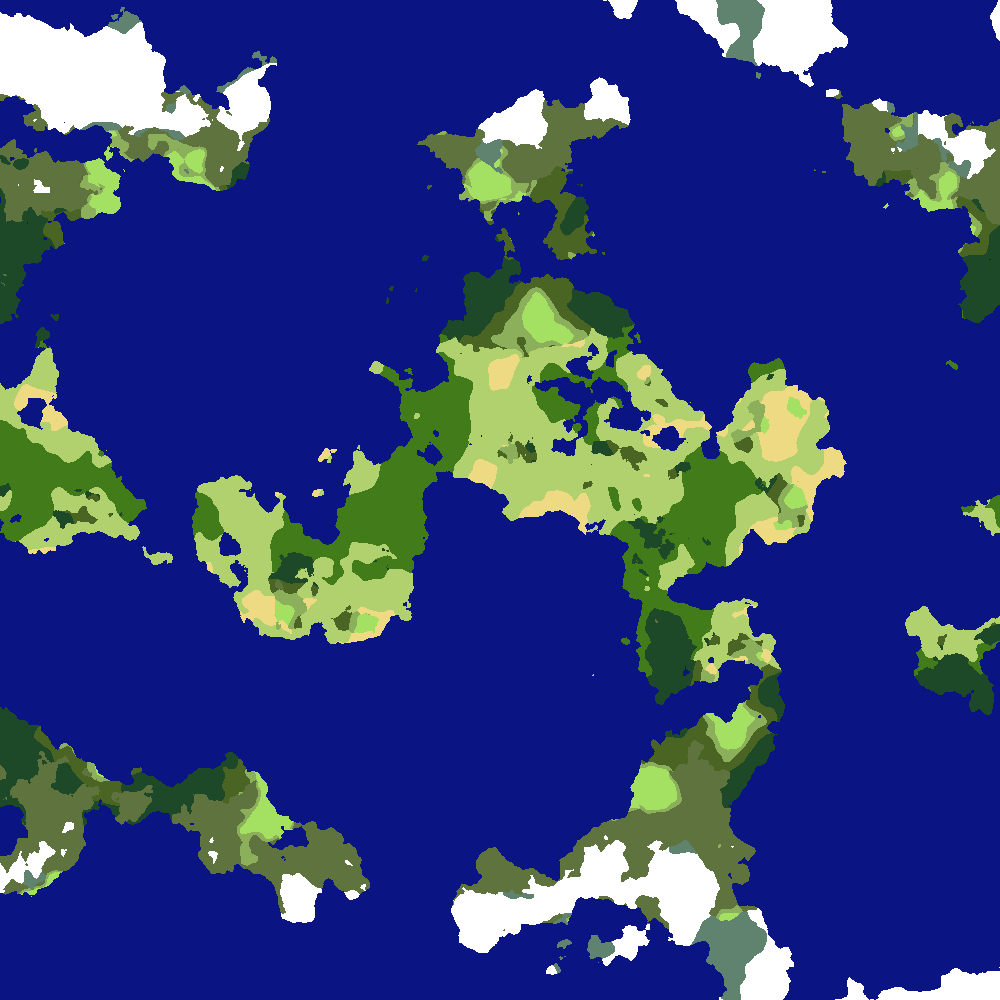
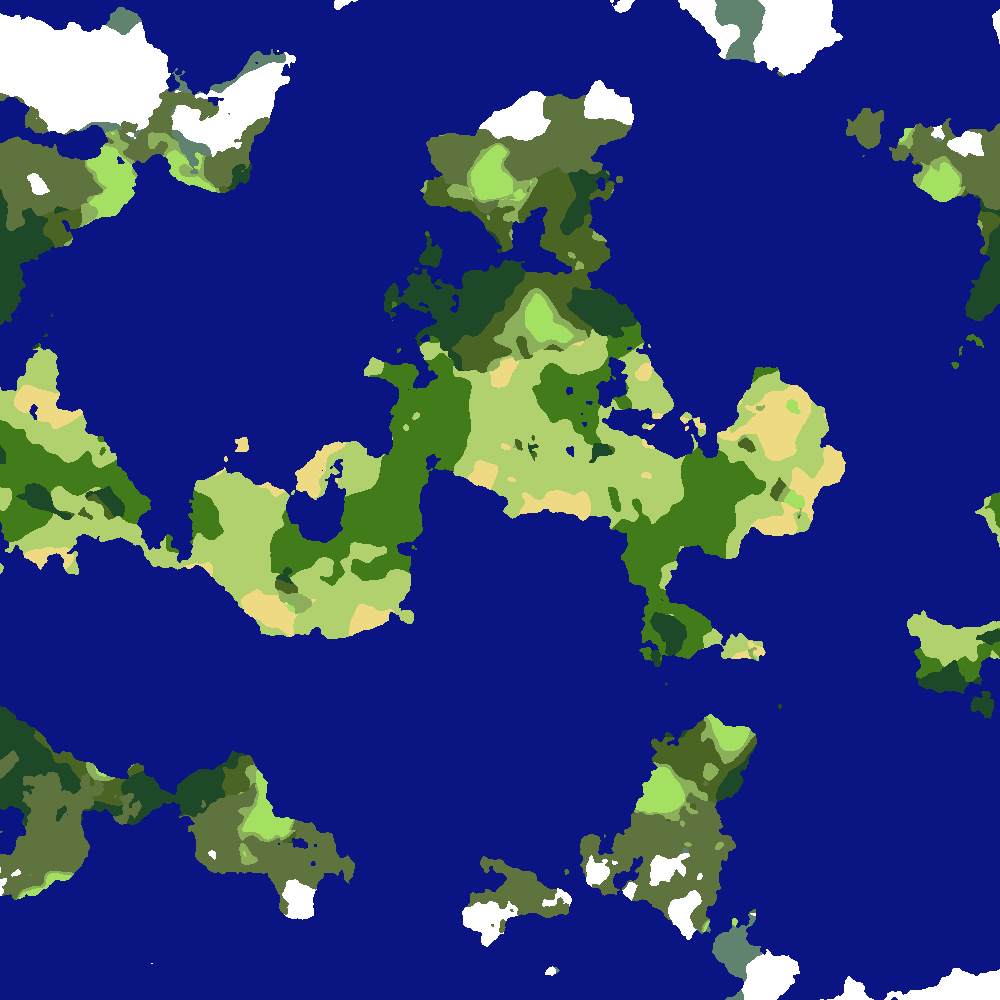
Fix average temperature

diff --git a/src/main/java/me/alexng/worldGen/pipeline/pipes/WindPipeWorder.java b/src/main/java/me/alexng/worldGen/pipeline/pipes/WindPipeWorder.java
@@ -23,13 +23,15 @@ public class WindPipeWorder implements PipeWorker {
     @Producer(name = "wind", stored = true)
     public float process(PlanePoint point, @Consume(name = "temp_average") float temperature,
             @Consume(name = "coriolis") float coriolis) {
-        return (temperature + coriolis) / 2.0f;
+        // TODO: Convert angles and then add.
+        // TODO: Temperature map needs to be processed into pressure vector
+        return (temperature + coriolis);
     }
 
     @Producer(name = "temp_average", stored = true)
     public float tempAverage(PlanePoint point, @Consume(name = "temperature", blocked = true) float[] temperature) {
-        Vector2f val = new Vector2f();
         int num = 0;
+        float total = 0;
         int lx = point.getIndex() % sampleWidth;
         int ly = point.getIndex() / sampleWidth;
         for (int dx = 0; dx < SAMPLE_WIDTH; dx++) {
@@ -42,13 +44,11 @@ public class WindPipeWorder implements PipeWorker {
                 if (ny < 0 || ny >= sampleHeight) {
                     continue;
                 }
-                float t = temperature[ny * sampleWidth + nx];
-                val.add(new Vector2f(nx - lx == 0 ? 0 : t / (float) (nx - lx),
-                        ny - ly == 0 ? 0 : t / (float) (ny - ly)));
+                total += temperature[ny * sampleWidth + nx];
                 num++;
             }
         }
-        return (float) Math.tanh((val.y / val.x));
+        return total / num;
     }
 
     private int getSampleHeight(Sampler sampler) {

diff --git a/src/main/java/me/alexng/worldGen/NoiseHelper.java b/src/main/java/me/alexng/worldGen/NoiseHelper.java
@@ -21,9 +21,9 @@ public class NoiseHelper {
 	public static FastNoiseLite getLandHeightMapNoise(int seed) {
 		FastNoiseLite noise = new FastNoiseLite();
 		noise.SetNoiseType(FastNoiseLite.NoiseType.OpenSimplex2);
-		noise.SetRotationType3D(FastNoiseLite.RotationType3D.None);
+		noise.SetRotationType3D(FastNoiseLite.RotationType3D.ImproveXYPlanes);
 		noise.SetSeed(seed);
-		noise.SetFrequency(0.00125f);
+		noise.SetFrequency(0.000125f);
 
 		noise.SetFractalType(FastNoiseLite.FractalType.FBm);
 		noise.SetFractalOctaves(6);

diff --git a/src/main/java/me/alexng/worldGen/pipeline/pipes/LandmassPipeWorker.java b/src/main/java/me/alexng/worldGen/pipeline/pipes/LandmassPipeWorker.java
@@ -13,8 +13,8 @@ import me.alexng.worldGen.sampler.Sampler;
 public class LandmassPipeWorker implements PipeWorker {
 
 	// x < SHORE_START -> biome(x) == OCEAN. x > SHORE_END -> biome(x) != OCEAN
-	private static final float SHORE_START = -0.2f;
-	private static final float SHORE_WIDTH = 0.6f;
+	private static final float SHORE_START = -0.4f;
+	private static final float SHORE_WIDTH = 0.9f;
 	private static final float SHORE_END = SHORE_START + SHORE_WIDTH;
 
 	private FastNoiseLite noise;
